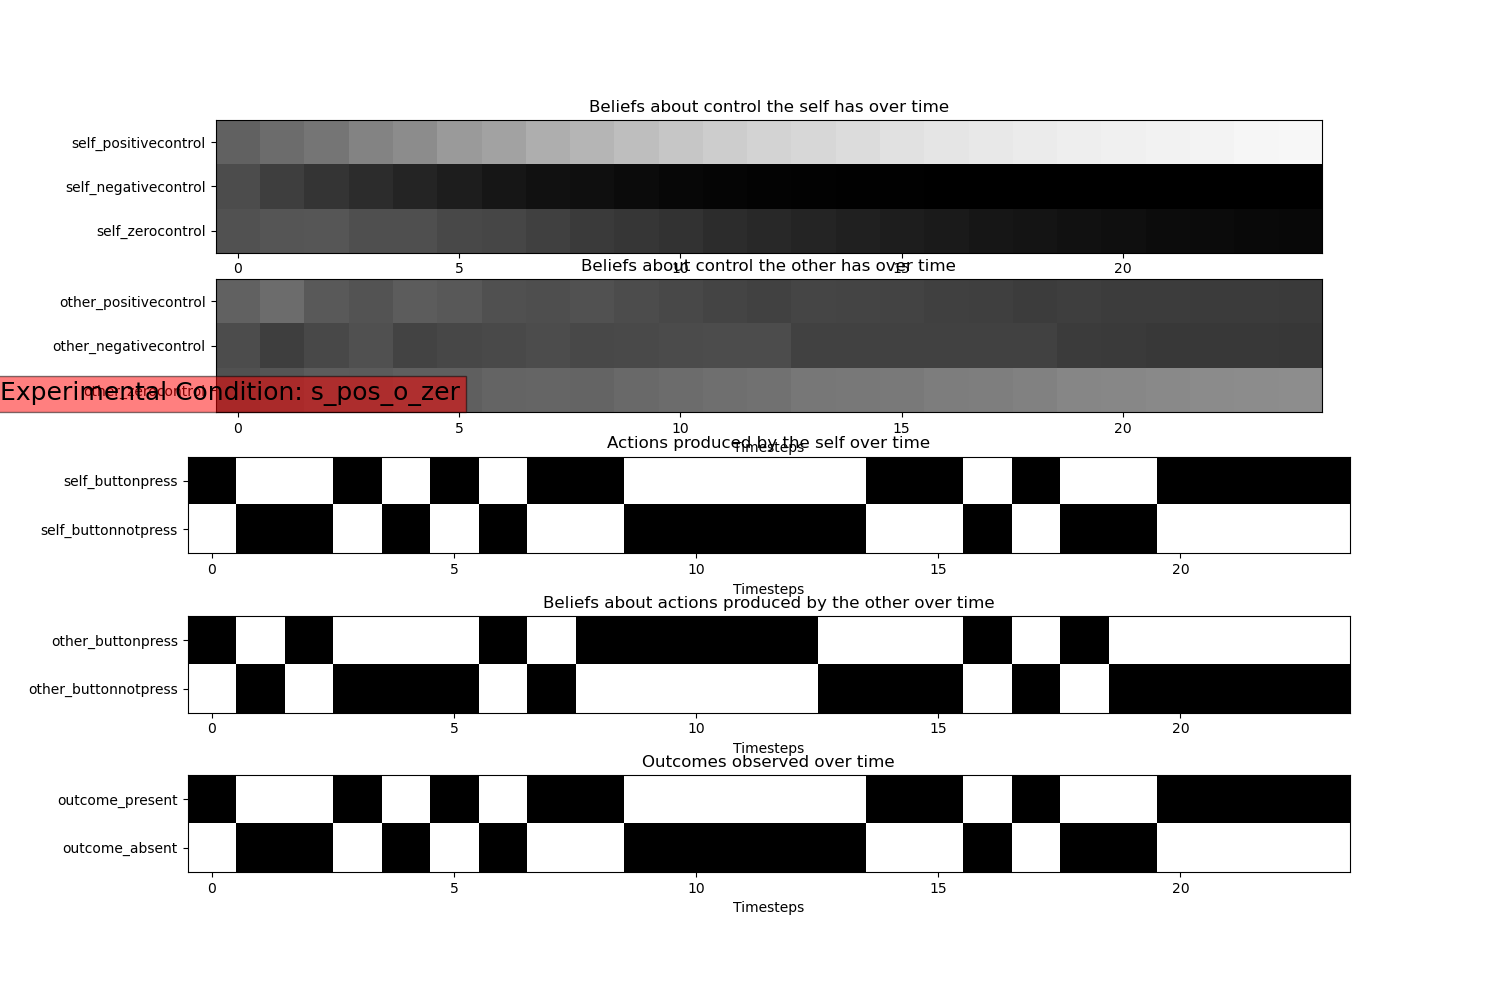
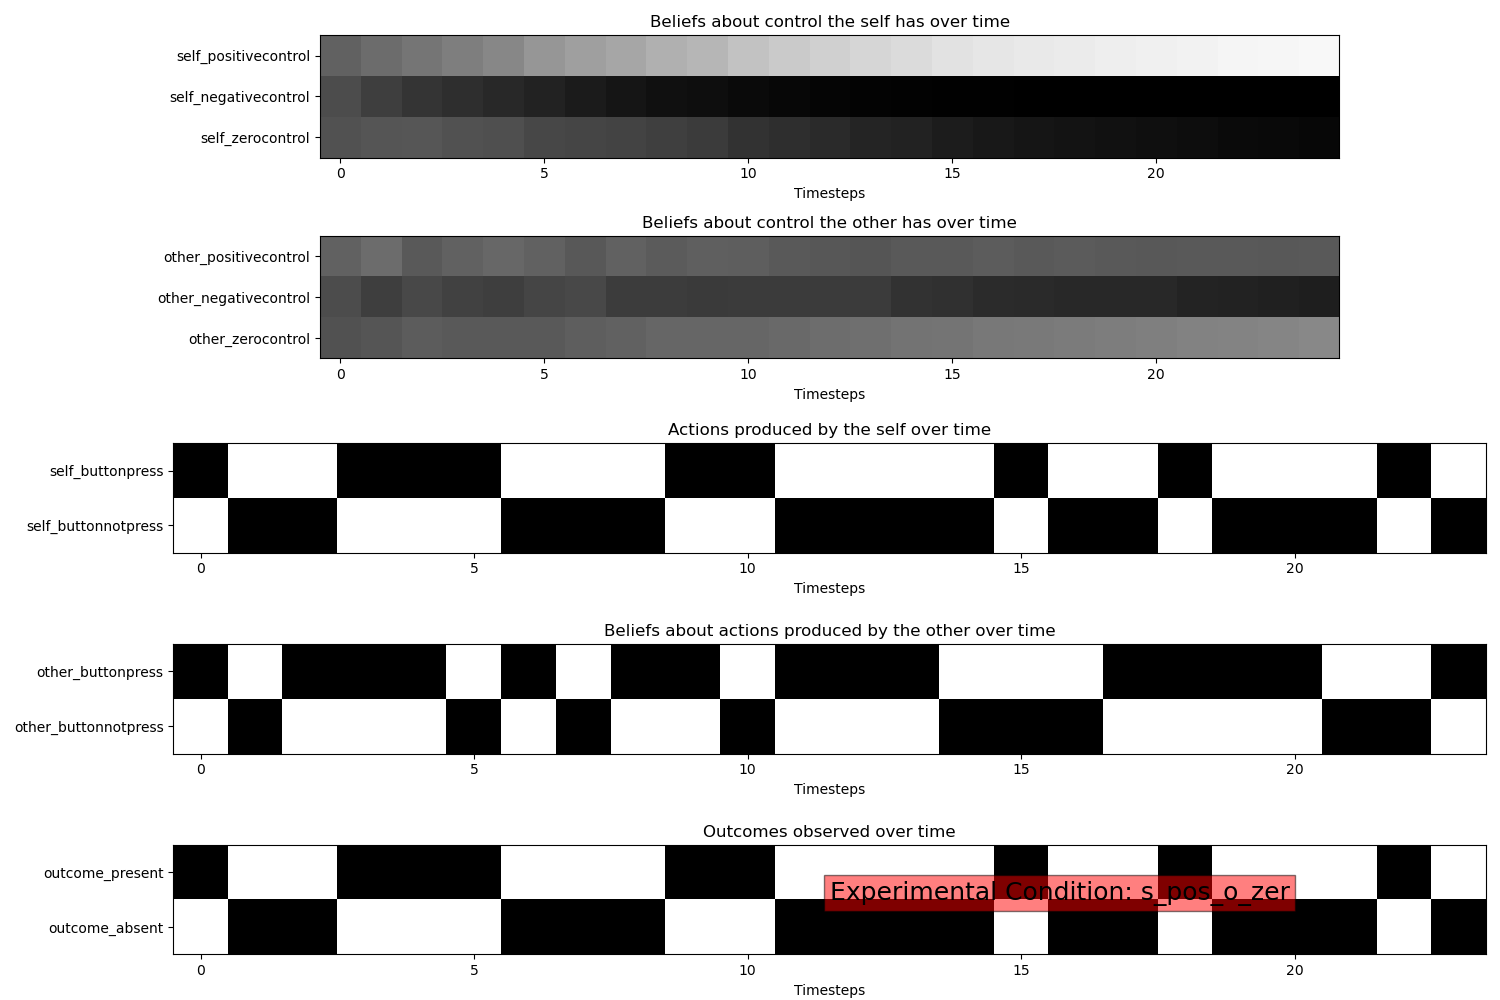
Experiment 2024-02-23-22-47-56

diff --git a/agency_twoagents.py b/agency_twoagents.py
@@ -501,7 +501,7 @@ def plot_all_choices_beliefs(log, env, savefig = 1):
     fig, axes = plt.subplots(nrows = 5, ncols = 1, figsize = (15,10))
     
     exp_cond_text = f'Experimental Condition: {env.expcondition}'
-    plt.text(0.5, 0.5, exp_cond_text, transform=plt.gca().transAxes,
+    plt.text(0.01, -2.0, exp_cond_text, transform=plt.gca().transAxes,
              fontsize = 18, bbox = dict(facecolor = 'red', alpha = 0.5))
 
     axes[0].imshow(log['belief_self_context_hist'], cmap = 'gray', vmin=0, vmax=1)
